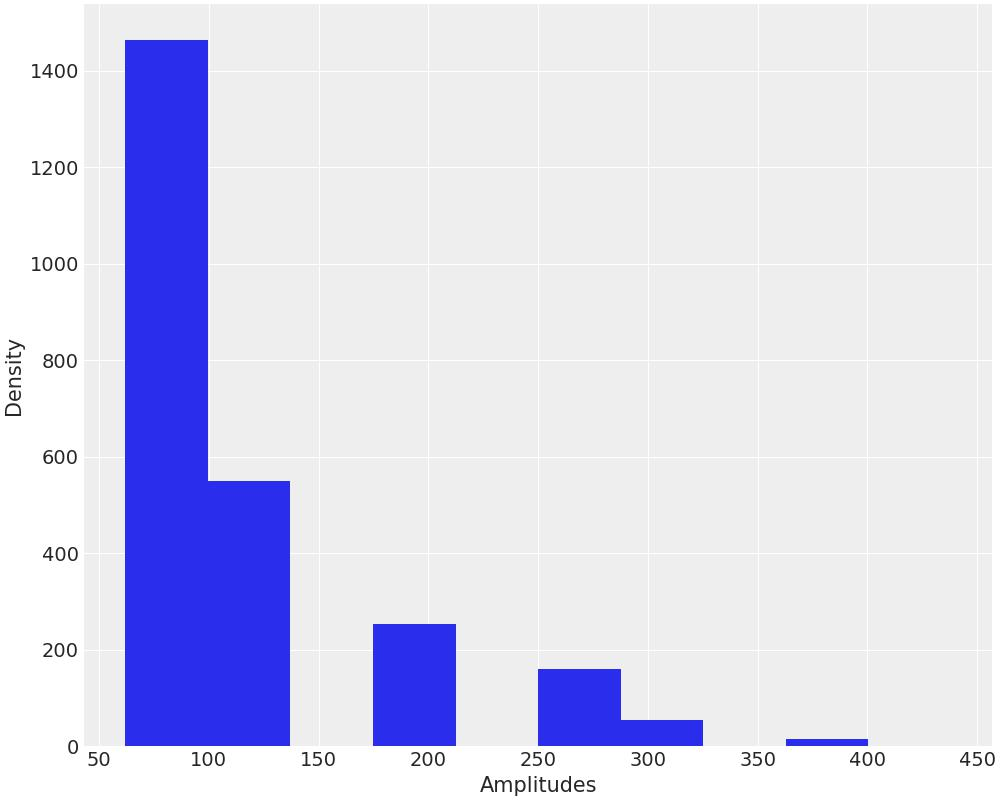
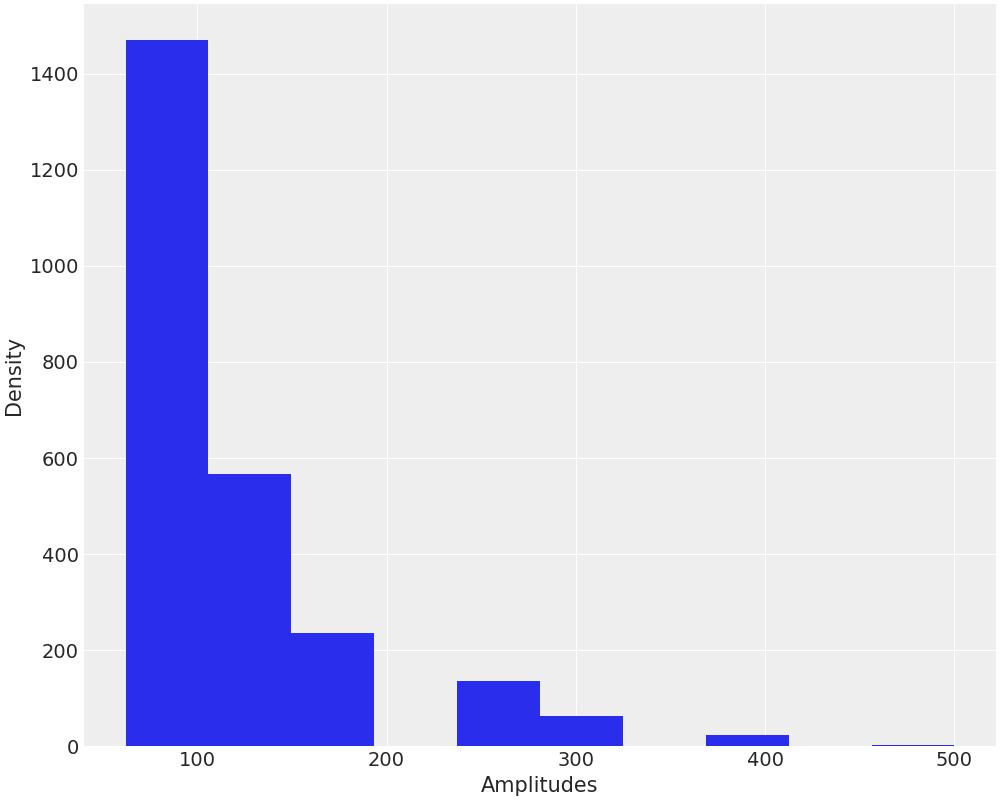
changes

diff --git a/src/combinedModel.py b/src/combinedModel.py
@@ -4,7 +4,7 @@ import pandas as pd
 import matplotlib.pyplot as plt
 import pymc3 as pm
 from pymc3.gp.util import plot_gp_dist
-from functools import reduce
+from functools import reduce, partial
 import jax.numpy as jnp
 import jax
 import json
@@ -24,19 +24,21 @@ def amplitudesToLoads(amplitudes, pf_slope):
 def log1exp(arr:jnp.ndarray):
     return jnp.log(1+jnp.exp(arr))
 
+def log1expM(arr:jnp.ndarray):
+    return jnp.log(jnp.exp(arr)-1)
+
 @jax.jit
 def fillArray(arr:jnp.DeviceArray, num:int=5):
     return reduce(lambda x,y: jnp.hstack((x,
                              jnp.linspace(x.max(), y, num=num))),
                              arr)
 
-def sliceArrs(arr1, arr2, out):
-    masks = [jnp.isclose(arr1, val) for val in arr2]
+def sliceArrs(dct, out):
+    masks = [jnp.isclose(dct['arr1'], val) for val in dct['arr2']]
     init = jnp.array([False for _ in masks[0]])
     mask = reduce(lambda x,y: jnp.logical_or(x,y), masks, init)
-    # mask = arr1<arr2.max() or arr1>arr2.min()
-    # return jnp.transpose(out)[mask]
-    return jnp.where(mask, jnp.transpose(out), -10)
+    return jnp.transpose(out)[jnp.where(mask, size=out.shape[1],fill_value=-1)]
+    # return jnp.where(mask.flatten(), jnp.transpose(out), -10)
 
 class DamageCalculation:
     def __init__(self, wohlerPath:str, loadPath:str,
@@ -133,13 +135,15 @@ class DamageCalculation:
         Nf = jnp.array(self.Nsamples)
         lnNf = jnp.array(self.slicedTotal)
         damageFun = jax.vmap(gaoModel, in_axes=(None,0,0))
-        self.damages = damageFun(cycles, Nf, lnNf)
+        coolDamageFun = jax.vmap(lambda x: damageFun(x, Nf, lnNf), in_axes=(0,))
+        self.damages = coolDamageFun(cycles).flatten()
 
         _, ax = plt.subplots(2,1, figsize=(12,8))
         ax[0].plot(self.damages)
 
         try:
-            counts, bins = jnp.histogram(self.damages)
+            counts, bins = jnp.histogram(self.damages[jnp.where(~jnp.isnan(self.damages))],
+                                         bins=50, density=True)
             ax[1].hist(bins[:-1], bins, weights=counts)
         except Exception as e:
             print(e)
@@ -192,8 +196,15 @@ class DamageCalculation:
 
         print("meanSamples shape-->",self.meanSamples.shape)
         print("Total N shape-->",self.totalN.shape)
-        sliceArrsvmap = jax.vmap(sliceArrs, in_axes=(0, 0, None))
-        self.slicedTotal = sliceArrsvmap(self.SNew, self.amplitudes, self.totalN)
+
+        sliceArrsvmap = jax.jit(jax.vmap(lambda dct: sliceArrs(dct, self.totalN),
+                                         in_axes=({'arr1':0, 'arr2':0},)))
+
+        # transposeT = jnp.transpose(self.totalN)
+        dct = {'arr1':self.SNew[0,:], 'arr2':self.amplitudes[0,:]}
+        # self.slicedTotal = sliceArrsvmap(dct)
+        self.slicedTotal = sliceArrs(dct, self.totalN)
+        # self.slicedTotal = reduce(lambda x,y: jnp.vstack((x, jnp.where(y, transposeT, -1))), masks)
         self.slicedTotal = jnp.transpose(self.slicedTotal)
         self.totalNNotNorm = self.slicedTotal * self.WohlerC.NMax
 

diff --git a/main.py b/main.py
@@ -3,11 +3,11 @@ from src.combinedModel import DamageCalculation
 # Re sample posterior to plot properly
 def main():
     props = {
-            'Eal':69e3,
-            'Ecore':200e3,
+            'Eal':70e3,
+            'Ecore':210e3,
             'rw':2.5,'rc':1,
             'layers':[26,7],
-            'T':30641*0.05
+            'T':30641*0.00005
                  }
 
     damageCal = DamageCalculation(wohlerPath='Results1',
@@ -16,23 +16,21 @@ def main():
                               loadPath='Results2', cableProps=props)
 
     print('max vals WohlerC-->')
-    print('logN', damageCal.WohlerC.NMax)
-    print('SMax', damageCal.WohlerC.SMax)
+    print('logN-->', damageCal.WohlerC.NMax)
+    print('SMax-->', damageCal.WohlerC.SMax)
+    print('max vals Loads-->', damageCal.LoadM.maxAmp)
     # damageCal.sample_model('wohler', 2000)
 
     # damageCal.sample_model('loads', 2000)
     # damageCal.WohlerC.samplePosterior()
     # damageCal.WohlerC.plotGP()
-    damageCal.restoreLoadSamples(ndraws=2000)
+    damageCal.restoreLoadSamples(ndraws=20000)
     damageCal.restoreFatigueLifeSamples(maxLoads=20)
     # damageCal.plotFatigueLifeSamples()
     # damageCal.plotLoadSamples()
-    damages = damageCal.calculateDamage_debug()
-
-
-    print('max vals Loads-->')
-    print(damageCal.LoadM.maxAmp)
-
+    # damages = damageCal.calculateDamage_debug()
+    print('Calculating Damage...')
+    damages = damageCal.calculateDamage()
     print(damages)
 
 if __name__=='__main__':
